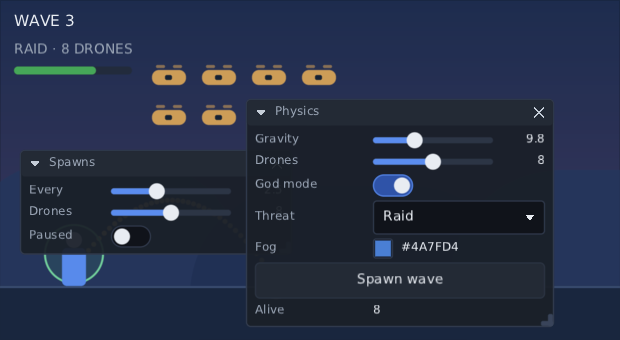
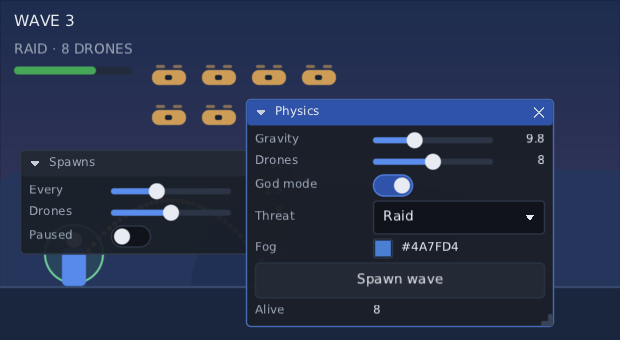
fix: the debug window in front is the one drawn lit
Pressing a debug window's title bar raised it but left the keyboard where
it was, so a window behind could still be drawn in its lit "active" look
while the one on top was dim. Pressing a control inside a window did move
focus, so the two ways in disagreed.

The rule now, written down in the docs: raising a window takes focus with
it, and focus arriving in a window raises it. There is only ever one
answer, and it is the window on top. A press on the title bar lands focus
on the frame rather than on a control, so it lights the window without
arming the triangle. A window that is closed, or put away with F9, hands
focus to the window now in front or back to where it was in the game.

The two-window picture in the wiki is re-rendered: the Physics window
being dragged is now the lit one.

Changed region(s): [[0.3984, 0.2941, 0.9194, 0.3824], [0.3984, 0.9412, 0.429, 0.9706]]

diff --git a/composegl-debug/src/commonMain/kotlin/dev/wildware/composegl/debug/DebugWindow.kt b/composegl-debug/src/commonMain/kotlin/dev/wildware/composegl/debug/DebugWindow.kt
@@ -201,8 +201,21 @@ fun rememberDebugWindowsState(store: DebugWindowStore = remember { defaultDebugW
  */
 class DebugWindowsState(private val store: DebugWindowStore) {
 
-    /** Whether every window is put away. [DebugWindowHost]'s hide shortcut and chord flip it. */
-    var hidden by mutableStateOf(false)
+    private var away by mutableStateOf(false)
+
+    /**
+     * Whether every window is put away. [DebugWindowHost]'s hide shortcut and chord flip it.
+     *
+     * Putting them away sends focus back where it was in the game, so the keyboard is never left on
+     * a window nobody can see.
+     */
+    var hidden: Boolean
+        get() = away
+        set(value) {
+            if (away == value) return
+            away = value
+            if (value) hostNode?.findFocusManager()?.let { focus -> if (isInAWindow(focus.focused)) handBack(focus) }
+        }
 
     /** Every window there is, in the order they were first shown. */
     internal val entries = mutableStateListOf<WindowEntry>()
@@ -243,9 +256,14 @@ class DebugWindowsState(private val store: DebugWindowStore) {
         save()
     }
 
-    /** Draws the window [id] over all the others. */
+    /**
+     * Draws the window [id] over all the others, and takes focus into it.
+     *
+     * Raising a window takes focus with it, the way a desktop window does, so the window in front is
+     * always the one drawn lit. Focus already inside it stays exactly where it is.
+     */
     fun bringToFront(id: String) {
-        order.firstOrNull { it.id == id }?.let(::bringToFront)
+        order.firstOrNull { it.id == id }?.let(::raise)
     }
 
     /**
@@ -271,9 +289,7 @@ class DebugWindowsState(private val store: DebugWindowStore) {
         val index = showing.indexOfFirst { current != null && current.isInside(it.root) }
         if (index < 0) returnTo = current
         if (index == showing.lastIndex) {
-            val back = returnTo?.takeIf { it.tree != null }
-            returnTo = null
-            if (back == null || !focus.focusOn(back)) focus.clearFocus()
+            handBack(focus)
             return true
         }
         val next = showing[index + 1]
@@ -301,14 +317,59 @@ class DebugWindowsState(private val store: DebugWindowStore) {
     }
 
     internal fun unregister(entry: WindowEntry) {
+        val focus = hostNode?.findFocusManager()
+        val hadFocus = focus != null && focus.focused?.isInside(entry.root) == true
         entries -= entry
         order -= entry
+        if (focus == null || !hadFocus) return
+        // Focus is going with the window, so it is not somewhere to come back to either.
+        returnTo = returnTo?.takeIf { !it.isInside(entry.root) }
+        // A window that closes with focus in it hands it on, the way a desktop does: to the window
+        // now in front, or back to the game when that was the last one.
+        val next = if (hidden) null else order.lastOrNull { it.root.parent != null }
+        if (next != null) focusInto(next, focus, keepReturn = false) else handBack(focus)
+    }
+
+    /** Draws [entry] over the others, and takes focus into it. See [bringToFront]. */
+    internal fun raise(entry: WindowEntry) {
+        bringToFront(entry)
+        hostNode?.findFocusManager()?.let { focusInto(entry, it) }
     }
 
     internal fun bringToFront(entry: WindowEntry) {
         if (order.lastOrNull() === entry || entry !in order) return
         order -= entry
         order += entry
+    }
+
+    /** Whether [node] is in any window at all, rather than out in the game. */
+    private fun isInAWindow(node: UiNode?): Boolean = node != null && entries.any { node.isInside(it.root) }
+
+    /**
+     * Focus into [entry], leaving it alone when it is already there.
+     *
+     * The frame itself is what it lands on: pressing a title bar should light the window without
+     * arming a control in it, and the frame takes focus from a pointer only, so it is never a place
+     * Tab or the pad stops at.
+     *
+     * @param keepReturn whether to keep where focus was, so hiding the windows or closing the last
+     *   one can put it back. False when focus is being moved off a window that is going away.
+     */
+    private fun focusInto(entry: WindowEntry, focus: FocusManager, keepReturn: Boolean = true) {
+        val current = focus.focused
+        if (current != null && current.isInside(entry.root)) return
+        if (keepReturn && !isInAWindow(current)) returnTo = current
+        val frame = entry.frame
+        if (frame != null && focus.focusOn(frame)) return
+        val target = focus.reachable().firstOrNull { it.isInside(entry.root) } ?: return
+        focus.focusOn(target)
+    }
+
+    /** Focus out of the windows: back where it was in the game, or nowhere at all. */
+    private fun handBack(focus: FocusManager) {
+        val back = returnTo?.takeIf { it.tree != null }
+        returnTo = null
+        if (back == null || !focus.focusOn(back)) focus.clearFocus()
     }
 
     internal fun isSectionOpen(window: String, title: String, initially: Boolean): Boolean {
@@ -532,11 +593,16 @@ private fun DebugWindowLayer(state: DebugWindowsState) {
  * up; see [DebugWindowScope] for the lines there are. Ordinary composables go in it too.
  *
  * - **Mouse.** Dragging the title bar moves it. Dragging an edge or a corner resizes it, down to
- *   [minSize]; the cursor says which way. A click anywhere on it brings it to the front. The triangle,
+ *   [minSize]; the cursor says which way. A press anywhere on it brings it to the front. The triangle,
  *   or a double click on the title bar, folds it to its title bar and back. The cross closes it.
  * - **Keyboard.** The triangle and the cross are focusable, like every control in it. With focus
  *   anywhere inside, Ctrl and an arrow (Command on a Mac) moves it, and Ctrl, Shift and an arrow makes
  *   it bigger or smaller. Focus arriving inside brings it to the front.
+ * - **Which one is lit.** Raising a window takes focus with it, and focus arriving in one raises it,
+ *   so there is only ever one answer: the window in front is the one drawn lit. A press on the title
+ *   bar lands focus on the frame rather than on a control, so it lights the window without arming
+ *   anything. A window that is closed or put away hands focus to the window now in front, or back to
+ *   where it was in the game.
  * - **Pad.** The host's cycle button brings focus into it. Inside, the right stick moves it.
  * - **Right to left**, [initialPosition] is measured from the top-right corner, the title bar reads
  *   from the right, and the triangle of a folded window points left.
@@ -546,9 +612,9 @@ private fun DebugWindowLayer(state: DebugWindowsState) {
  * up to the room on the screen under it, so its bottom edge is always somewhere they can grab; after
  * that it keeps its size and what is in it scrolls.
  *
- * Every look is the skin's: `"<style>"` for the frame, and `"<style>.active"` while focus is inside;
- * `"<style>.title"` and `"<style>.title.active"` for the title bar; `"<style>.button"` for the triangle
- * and the cross, in its states, drawn in its text colour; `"<style>.body"` round the contents;
+ * Every look is the skin's: `"<style>"` for the frame, and `"<style>.active"` while it is the window in
+ * front; `"<style>.title"` and `"<style>.title.active"` for the title bar; `"<style>.button"` for the
+ * triangle and the cross, in its states, drawn in its text colour; `"<style>.body"` round the contents;
  * `"<style>.label"` and `"<style>.value"` for a line's label and its readout; and `"<style>.grip"` for
  * the corner a window is resized from. A colour line is the toolkit's own colour button, so it reads
  * `"colourswatch"` and `"colourpicker"` like one anywhere else.
@@ -851,27 +917,32 @@ private fun WindowFrame(
     mover.minSize = chrome.minSize
     mover.rtl = direction == LayoutDirection.Rtl
 
-    var active by remember { mutableStateOf(false) }
+    // The window is lit while focus is anywhere in it, including on the frame itself — which is where
+    // a press on the title bar puts it. A focus-within handler is only told about the nodes inside,
+    // so the frame's own focus is read from its interaction state.
+    var withinBody by remember(entry) { mutableStateOf(false) }
+    val frameFocus = remember(entry) { InteractionState() }
+    val active = withinBody || frameFocus.isFocused
     val within = remember(entry) {
         FocusWithinHandler { inside ->
-            active = inside
+            withinBody = inside
             // Focus leaving takes the pad with it: the stick's return to centre goes wherever focus
             // went, so what is remembered here stops being true the moment focus is elsewhere.
             if (inside) state.bringToFront(entry) else mover.letGoOfStick()
         }
     }
     // The frame takes whatever reaches it — a press, a move, a scroll — so nothing goes through a
-    // window to the game underneath. A press brings it to the front on the way.
+    // window to the game underneath. A press raises it on the way.
     val frameInput = remember(entry) {
         PointerHandler { event ->
-            if (event is PointerEvent.Press) state.bringToFront(entry)
+            if (event is PointerEvent.Press) state.raise(entry)
             true
         }
     }
-    // On the title bar and the edges, which take a press themselves to drag: in front, and let through.
+    // On the title bar and the edges, which take a press themselves to drag: raised, and let through.
     val front = remember(entry) {
         PointerHandler { event ->
-            if (event is PointerEvent.Press) state.bringToFront(entry)
+            if (event is PointerEvent.Press) state.raise(entry)
             false
         }
     }
@@ -935,7 +1006,7 @@ private fun WindowFrame(
         content = {
             Layout(
                 modifier = chrome.modifier
-                    .focusableByPointer()
+                    .focusableByPointer(frameFocus)
                     .onPointer(frameInput)
                     .onFocusWithin(within)
                     .onKeyEvent(keys)

diff --git a/composegl-debug/src/commonTest/kotlin/dev/wildware/composegl/debug/DebugWindowTest.kt b/composegl-debug/src/commonTest/kotlin/dev/wildware/composegl/debug/DebugWindowTest.kt
@@ -359,6 +359,134 @@ class DebugWindowTest {
         assertTrue(ui.focus.focused?.isInside(ui.window("One")) == true, ui.dump())
     }
 
+    // --- which one is lit ------------------------------------------------------------------------
+    //
+    // The window in front is the one drawn lit, whichever way it got there. These drive the two ways
+    // in — a press on the chrome, a press on a control, the keyboard — and read the answer off the
+    // picture rather than off the focus, because a lit bar behind the window on top is the bug.
+
+    /** A skin that says plainly which window is lit: the active title bar is green, the others grey. */
+    private val litSkin = SkinFormat.read(
+        """{ "styles": {
+            "debugwindow.title": { "background": { "fill": "#202020" } },
+            "debugwindow.title.active": { "background": { "fill": "#00FF00" } }
+        } }""",
+    )
+
+    @Composable
+    private fun TwoLitWindows(state: DebugWindowsState, physics: Physics) {
+        DebugWindowHost(state = state) {
+            Button("PLAY", onClick = {}, modifier = Modifier.align(Alignment.BottomStart).testTag("play"))
+            SkinOverride(litSkin) {
+                DebugWindow("One", initialPosition = Offset(20f, 20f)) {
+                    tweak("Gravity", physics::gravity, 0f..50f)
+                }
+                DebugWindow("Two", initialPosition = Offset(420f, 300f)) {
+                    toggle("God mode", physics::godMode)
+                }
+            }
+        }
+    }
+
+    /** Which of [ids] are drawn with the lit title bar, as the player sees them. */
+    private fun UiTest.lit(vararg ids: String): List<String> {
+        val canvas = RecordingCanvas(Rect.of(0f, 0f, size.width, size.height))
+        DrawPass(canvas).draw(root)
+        val painted = canvas.calls.filterIsInstance<DrawCall.Rectangle>()
+        return ids.filter { id ->
+            val bar = title(id).boundsInRoot
+            painted.any { it.rect == bar && it.colour == Colour.rgb(0x00FF00) }
+        }
+    }
+
+    @Test
+    fun `pressing the title bar of the window behind lights it and dims the one in front`() {
+        val state = DebugWindowsState(store)
+        val ui = open { TwoLitWindows(state, Physics()) }
+        ui.click(ui.control("Gravity", "One").boundsInRoot.centre)
+        assertEquals(listOf("One"), ui.lit("One", "Two"), "the window clicked into is not the lit one")
+
+        ui.click(ui.title("Two").boundsInRoot.centre)
+
+        assertEquals("Two", state.windows.last(), "the window whose title bar was pressed is not in front")
+        assertEquals(listOf("Two"), ui.lit("One", "Two"), "the lit window is not the one in front:\n" + ui.dump())
+    }
+
+    @Test
+    fun `pressing a control in the window behind lights it as well`() {
+        val state = DebugWindowsState(store)
+        val ui = open { TwoLitWindows(state, Physics()) }
+        ui.click(ui.title("Two").boundsInRoot.centre)
+        assertEquals(listOf("Two"), ui.lit("One", "Two"))
+
+        ui.click(ui.control("Gravity", "One").boundsInRoot.centre)
+
+        assertEquals("One", state.windows.last(), "the window the control is in is not in front")
+        assertEquals(listOf("One"), ui.lit("One", "Two"), "the lit window is not the one in front:\n" + ui.dump())
+    }
+
+    @Test
+    fun `the keyboard moving focus into a window never leaves a window behind lit`() {
+        val state = DebugWindowsState(store)
+        val ui = open { TwoLitWindows(state, Physics()) }
+        ui.click(ui.title("Two").boundsInRoot.centre)
+        ui.click("play")
+
+        ui.key(Key.F6)
+
+        assertEquals("One", state.windows.last(), "the window focus went into is not in front")
+        assertEquals(listOf("One"), ui.lit("One", "Two"), "the lit window is not the one in front:\n" + ui.dump())
+    }
+
+    @Test
+    fun `pressing a title bar lights the window without arming a control in it`() {
+        val physics = Physics()
+        val state = DebugWindowsState(store)
+        val ui = open { Screen(physics, state) }
+
+        ui.click(ui.title().boundsInRoot.centre)
+        ui.key(Key.Enter)
+
+        assertFalse(state.isCollapsed("Physics"), "Enter folded the window, so the press armed the triangle")
+        assertEquals(0, physics.waves, "Enter pressed a button in the window")
+    }
+
+    @Test
+    fun `closing the window focus is in hands it to the window now in front`() {
+        val physics = Physics()
+        val state = DebugWindowsState(store)
+        var showTwo by mutableStateOf(true)
+        val ui = open {
+            DebugWindowHost(state = state) {
+                Button("PLAY", onClick = {}, modifier = Modifier.align(Alignment.BottomStart).testTag("play"))
+                DebugWindow("One", initialPosition = Offset(20f, 20f)) { tweak("Gravity", physics::gravity, 0f..50f) }
+                if (showTwo) DebugWindow("Two", initialPosition = Offset(420f, 300f)) { toggle("God mode", physics::godMode) }
+            }
+        }
+        ui.click(ui.title("Two").boundsInRoot.centre)
+        assertEquals("Two", state.windows.last())
+
+        showTwo = false
+        ui.settle()
+
+        assertEquals(listOf("One"), state.windows)
+        assertTrue(ui.focus.focused?.isInside(ui.window("One")) == true, "focus went nowhere sensible:\n" + ui.dump())
+    }
+
+    @Test
+    fun `putting the windows away hands focus back to the game`() {
+        val state = DebugWindowsState(store)
+        val ui = open { Screen(Physics(), state) }
+        ui.click("play")
+        ui.click(ui.title().boundsInRoot.centre)
+        assertTrue(ui.focus.focused?.isInside(ui.window()) == true, "the press did not take focus into the window")
+
+        ui.key(Key.F9)
+
+        assertTrue(state.hidden)
+        assertTrue(ui.focus.focused?.isInside(ui.node("play")) == true, "focus did not go back to the game:\n" + ui.dump())
+    }
+
     @Test
     fun `a press on a window does not reach the game underneath`() {
         val physics = Physics()

diff --git a/composegl-demo/src/main/kotlin/dev/wildware/composegl/demo/docs/DocShots.kt b/composegl-demo/src/main/kotlin/dev/wildware/composegl/demo/docs/DocShots.kt
@@ -3358,8 +3358,8 @@ private fun MutableList<DocShot>.debugWindows() {
         },
     )
 
-    // Two at once, and the one behind being carried: the pointer took Spawns by its title bar and is
-    // still holding it over Physics, so it is the window in front and the one with the lit title bar.
+    // Two at once, and one of them being carried: the pointer took Physics by its title bar and is
+    // still holding it over Spawns, so it is the window in front and the one with the lit title bar.
     add(
         DocShot(
             "debug-window-two",

diff --git a/docs/wiki/Debugging.md b/docs/wiki/Debugging.md
@@ -109,7 +109,7 @@ controls line up.
 |---|---|
 | drag the title bar | the window moves |
 | drag an edge or a corner | the window resizes, down to `minSize`; the cursor says which way |
-| click anywhere on it | it comes to the front |
+| click anywhere on it | it comes to the front, and the keyboard comes with it |
 | the triangle, or a double click on the title | it folds to its title bar, and back |
 | the cross | `onClose`, so the game stops composing it — like a `Dialog` |
 | Ctrl and an arrow, with focus inside | it moves. With Shift too, it resizes |
@@ -118,7 +118,14 @@ controls line up.
 | the pad's right stick, with focus inside | the window moves, and stops as soon as focus leaves it |
 | both sticks clicked together | every window is put away, as F9 does |
 
-![two debug windows over the same game, the Physics one caught mid-drag by its title bar and now drawn in front of the Spawns one](https://raw.githubusercontent.com/wildware-uk/composegl/master/docs/wiki/images/debug-window-two.png)
+![two debug windows over the same game, the Physics one caught mid-drag by its title bar, drawn in front of the Spawns one and the only one with a lit title bar](https://raw.githubusercontent.com/wildware-uk/composegl/master/docs/wiki/images/debug-window-two.png)
+
+**The window in front is the lit one.** Raising a window takes the keyboard with it, and the
+keyboard arriving in a window raises it, so the two can never disagree: exactly one window is
+drawn in its `.active` look, and it is the one on top. Clicking a title bar lights the window
+without arming a control in it, so Enter straight afterwards does nothing. A window that is
+closed, or put away with F9, hands the keyboard to the window now in front, or back to where
+it was in the game.
 
 Every key and button there is an argument of `DebugWindowHost` — `hideShortcut`,
 `hideChord`, `cycleShortcut`, `cycleButton` — and all of them are shortcuts, so a field
@@ -156,14 +163,16 @@ DebugWindowHost(state = rememberDebugWindowsState(MyStore())) { Game() }
 ```
 
 `DebugWindowsState` is also how a game reads and changes the windows from elsewhere:
-`windows` names them from the back to the front, `hidden` puts them away, `bringToFront`,
-`position`, `size`, `isCollapsed`, `setCollapsed`, `focusNextWindow`, and `resetLayout()`
-to put every window back where the code puts it.
+`windows` names them from the back to the front, `hidden` puts them away, `bringToFront`
+(which takes the keyboard with it, as a click does), `position`, `size`, `isCollapsed`,
+`setCollapsed`, `focusNextWindow`, and `resetLayout()` to put every window back where the
+code puts it.
 
 Unlike the overlays below, a window is an ordinary part of the interface and takes the
 mouse, the keyboard and the pad. It is skinned like every other widget: `"debugwindow"`
 and `"debugwindow.active"` for the frame, `"debugwindow.title"` and
-`"debugwindow.title.active"`, `"debugwindow.button"`, `"debugwindow.body"`,
+`"debugwindow.title.active"` for the title bar — the `.active` pair being the window in
+front — then `"debugwindow.button"`, `"debugwindow.body"`,
 `"debugwindow.label"`, `"debugwindow.value"` and `"debugwindow.grip"`. The default and
 high-contrast skins name all of them, and a colour line wears the picker's own
 `"colourswatch"` and `"colourpicker"`.
